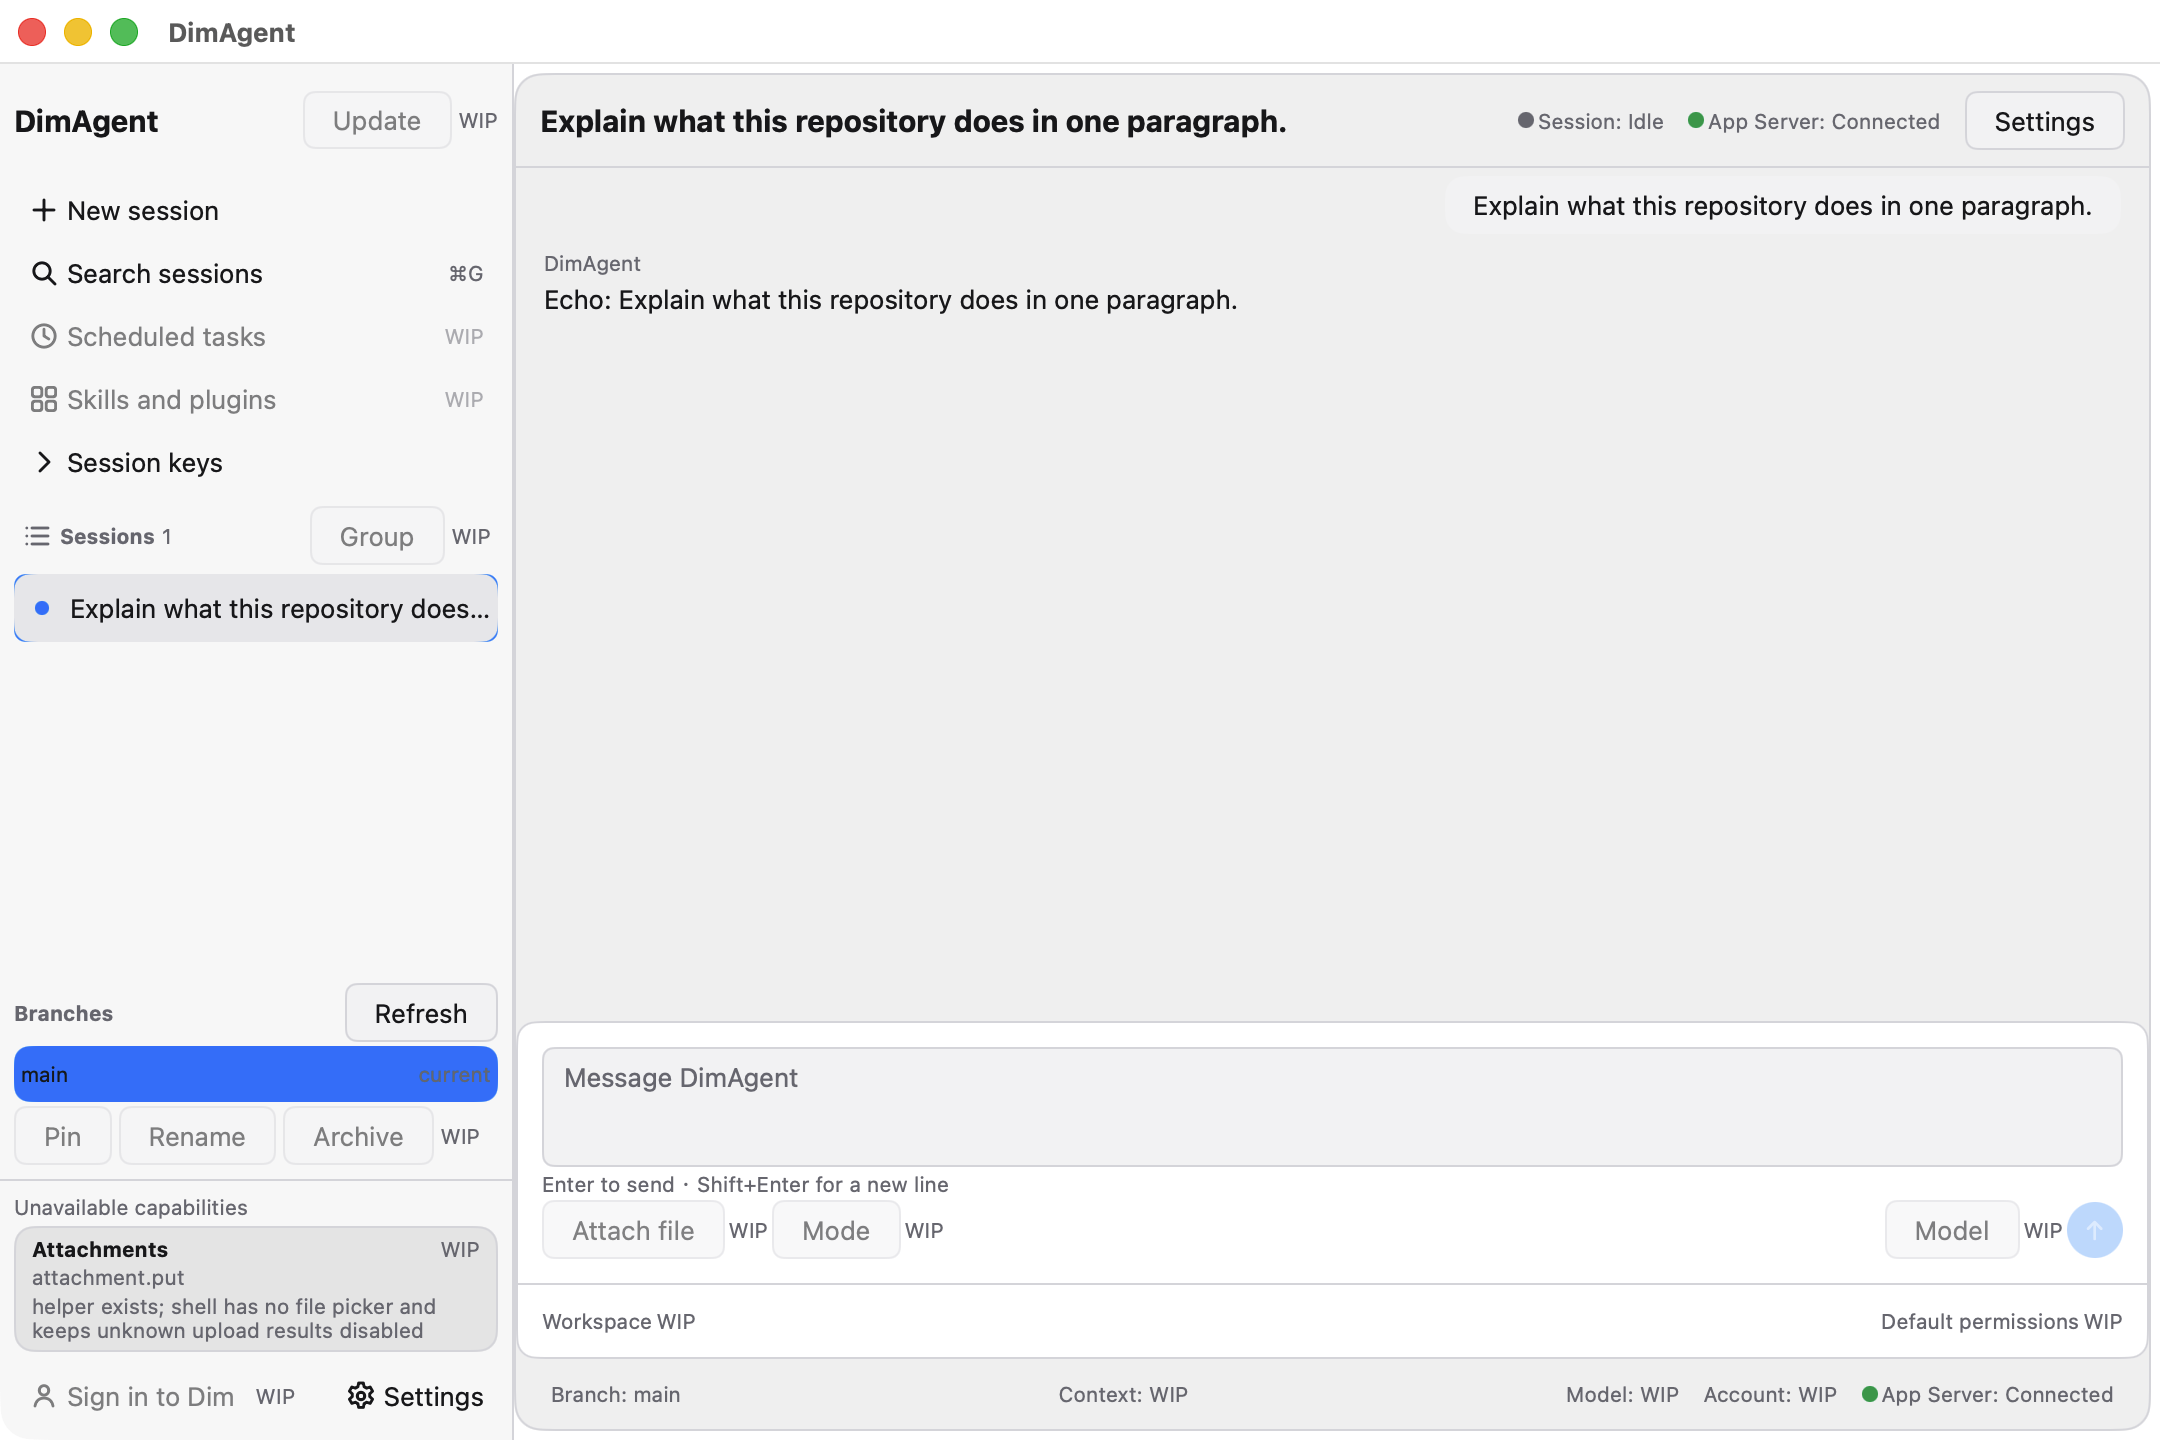
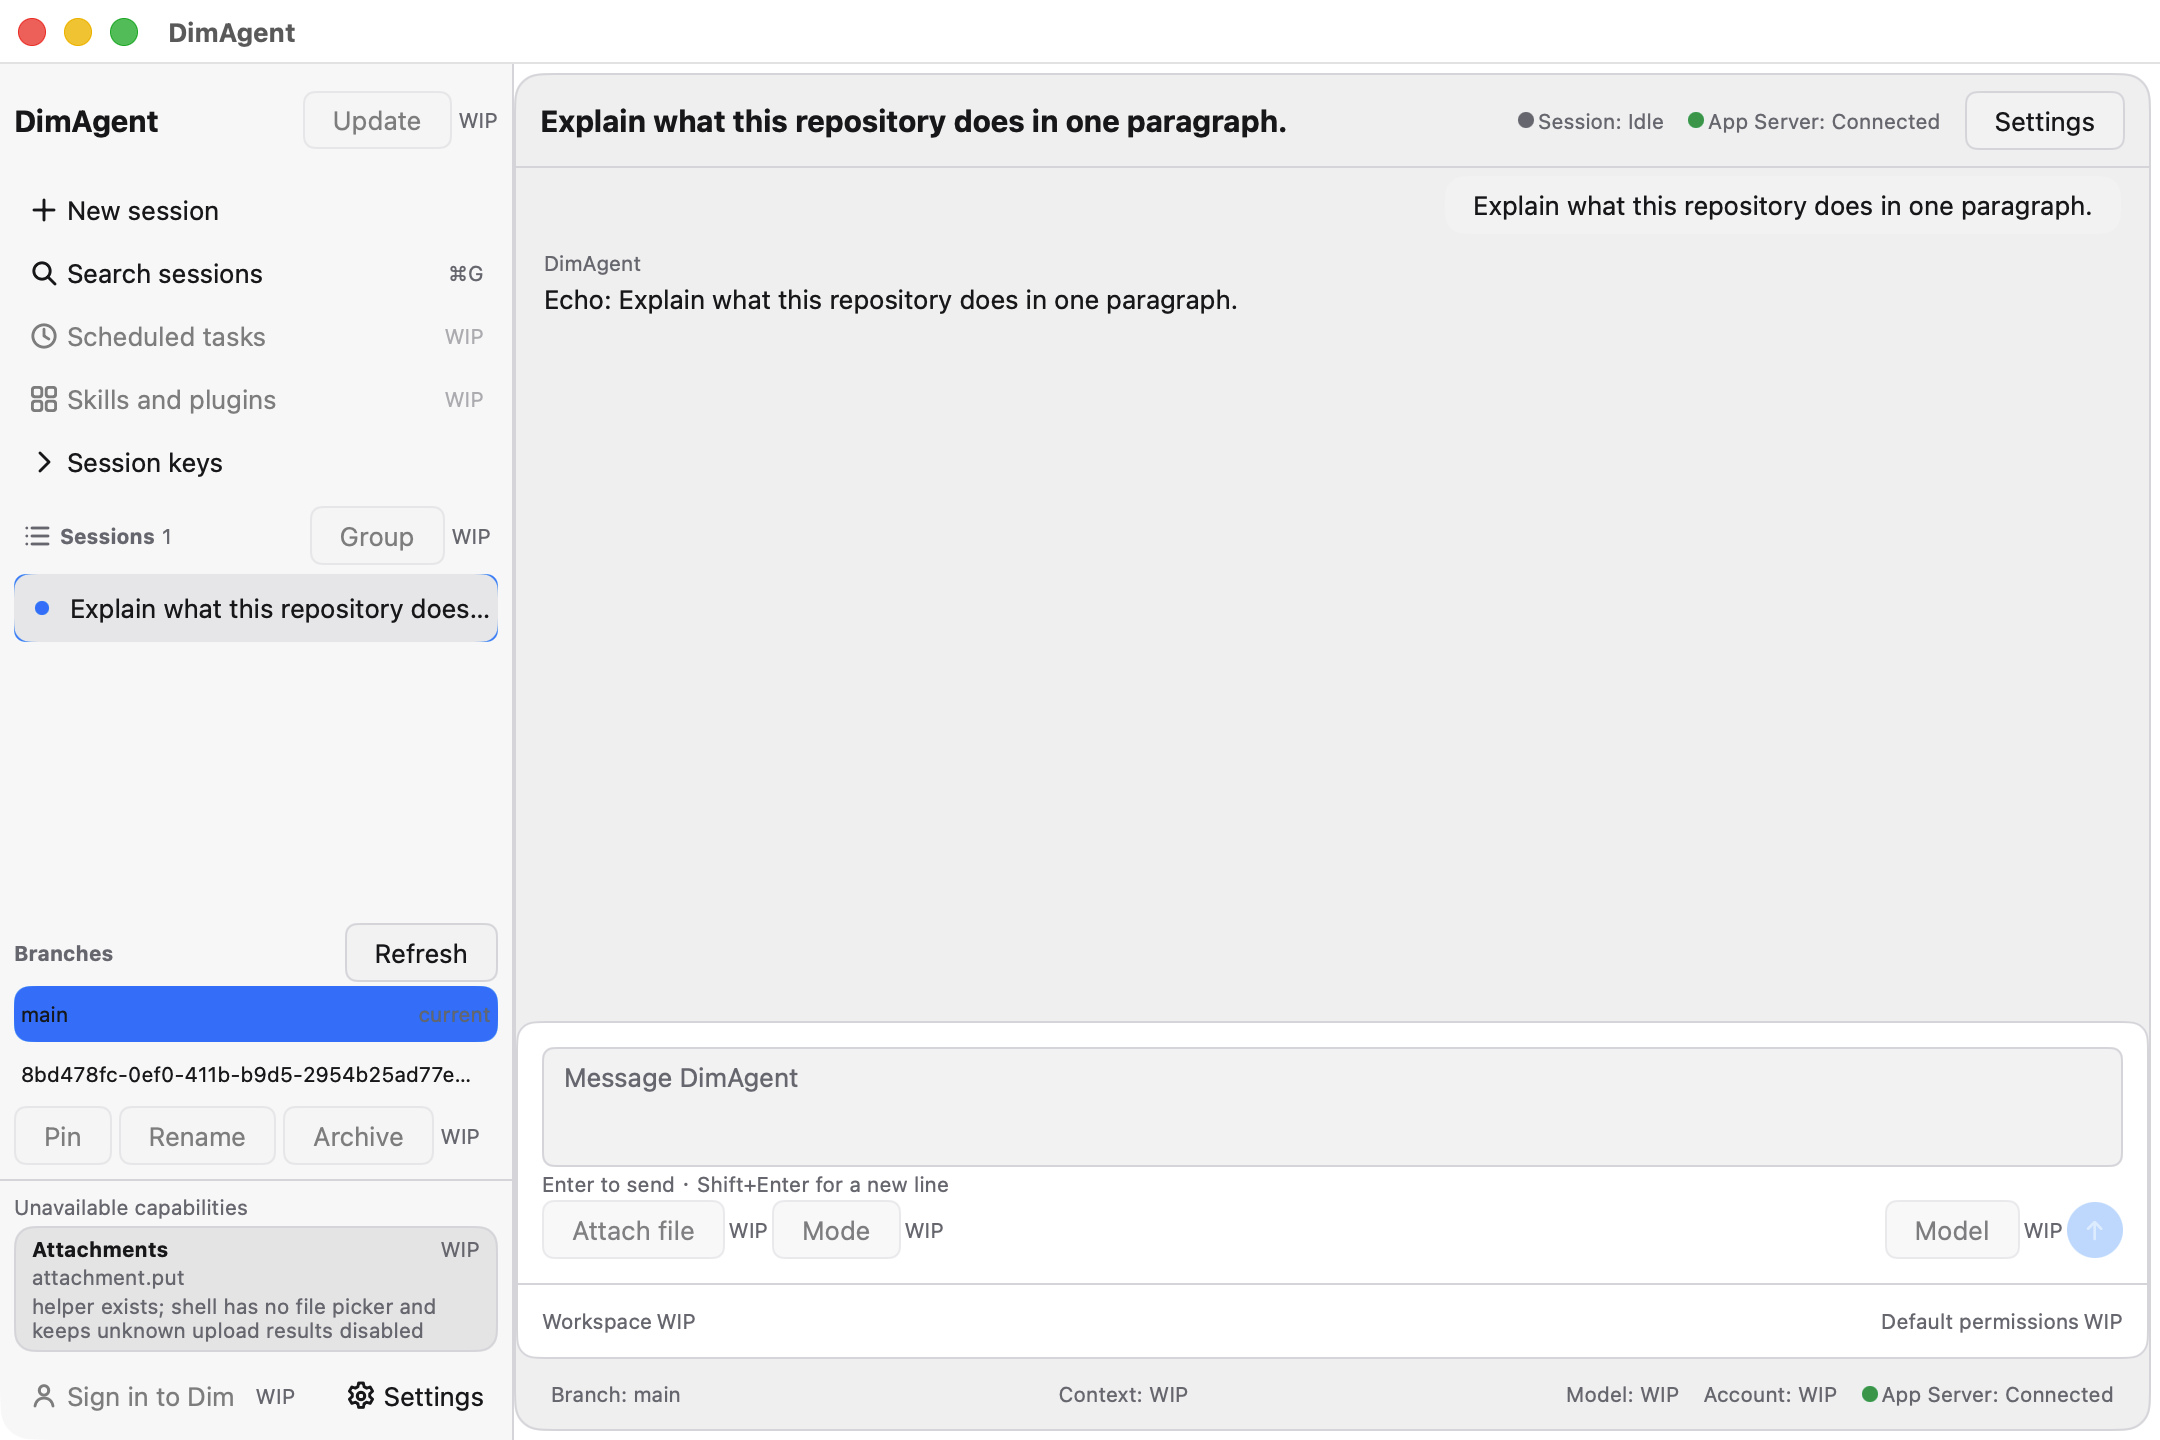
feat(scripts): seed a side branch in the same session

Changed region(s): [[0.0, 0.6562, 0.2481, 0.7812]]

diff --git a/scripts/seed-session/main.go b/scripts/seed-session/main.go
@@ -22,6 +22,7 @@ func main() {
 	server := flag.String("server", "", "dim-app-server binary (default: supervisor lookup)")
 	cwd := flag.String("cwd", "", "working directory for the new session (default: current)")
 	prompt := flag.String("prompt", "", "optional first message to submit after session.create")
+	sideBranch := flag.Bool("side-branch", false, "also create one side branch off the submitted input")
 	flag.Parse()
 
 	if *home == "" {
@@ -58,23 +59,50 @@ func main() {
 		_, _ = sup.Close(context.Background())
 		os.Exit(1)
 	}
+	submitSequence := int64(0)
 	if *prompt != "" {
 		// Submit on the control connection: session.submit is a session method,
 		// and the daemon folds the turn into the same durable history a window
 		// reads later. It never derives a local row from this reply.
-		if _, err := appserver.Submit(ctx, conn.Client(), appserver.SubmitParams{
+		submitted, err := appserver.Submit(ctx, conn.Client(), appserver.SubmitParams{
 			SessionID:    result.SessionID,
 			SubmissionID: newSubmissionID(),
 			BranchID:     appserver.MainBranchID,
 			Text:         *prompt,
-		}); err != nil {
+		})
+		if err != nil {
 			fmt.Fprintf(os.Stderr, "seed-session: session.submit: %v\n", err)
 			_, _ = sup.Close(context.Background())
 			os.Exit(1)
 		}
+		submitSequence = submitted.Event.Sequence
 		// Give the mock model a moment to fold its turn before the daemon closes;
 		// the history read later only sees durable events either way.
 		time.Sleep(1500 * time.Millisecond)
+	}
+	if *sideBranch {
+		if submitSequence == 0 {
+			fmt.Fprintln(os.Stderr, "seed-session: -side-branch needs -prompt: the cut point is the submitted input")
+			_, _ = sup.Close(context.Background())
+			os.Exit(2)
+		}
+		// A side line hangs off the submitted input's sequence: that is the one
+		// cut point this tool can prove without reading daemon state.
+		created, err := appserver.BranchCreate(ctx, conn.Client(), appserver.BranchCreateParams{
+			SessionID:      result.SessionID,
+			ParentBranchID: appserver.MainBranchID,
+			At:             &submitSequence,
+			Prompt:         "seed: side branch",
+		})
+		if err != nil {
+			fmt.Fprintf(os.Stderr, "seed-session: session.branch_create: %v\n", err)
+			_, _ = sup.Close(context.Background())
+			os.Exit(1)
+		}
+		if created.Branch != nil {
+			fmt.Fprintf(os.Stderr, "seed-session: side branch %s\n", created.Branch.BranchID)
+		}
+		time.Sleep(500 * time.Millisecond)
 	}
 
 	closeCtx, closeCancel := context.WithTimeout(context.Background(), 15*time.Second)
